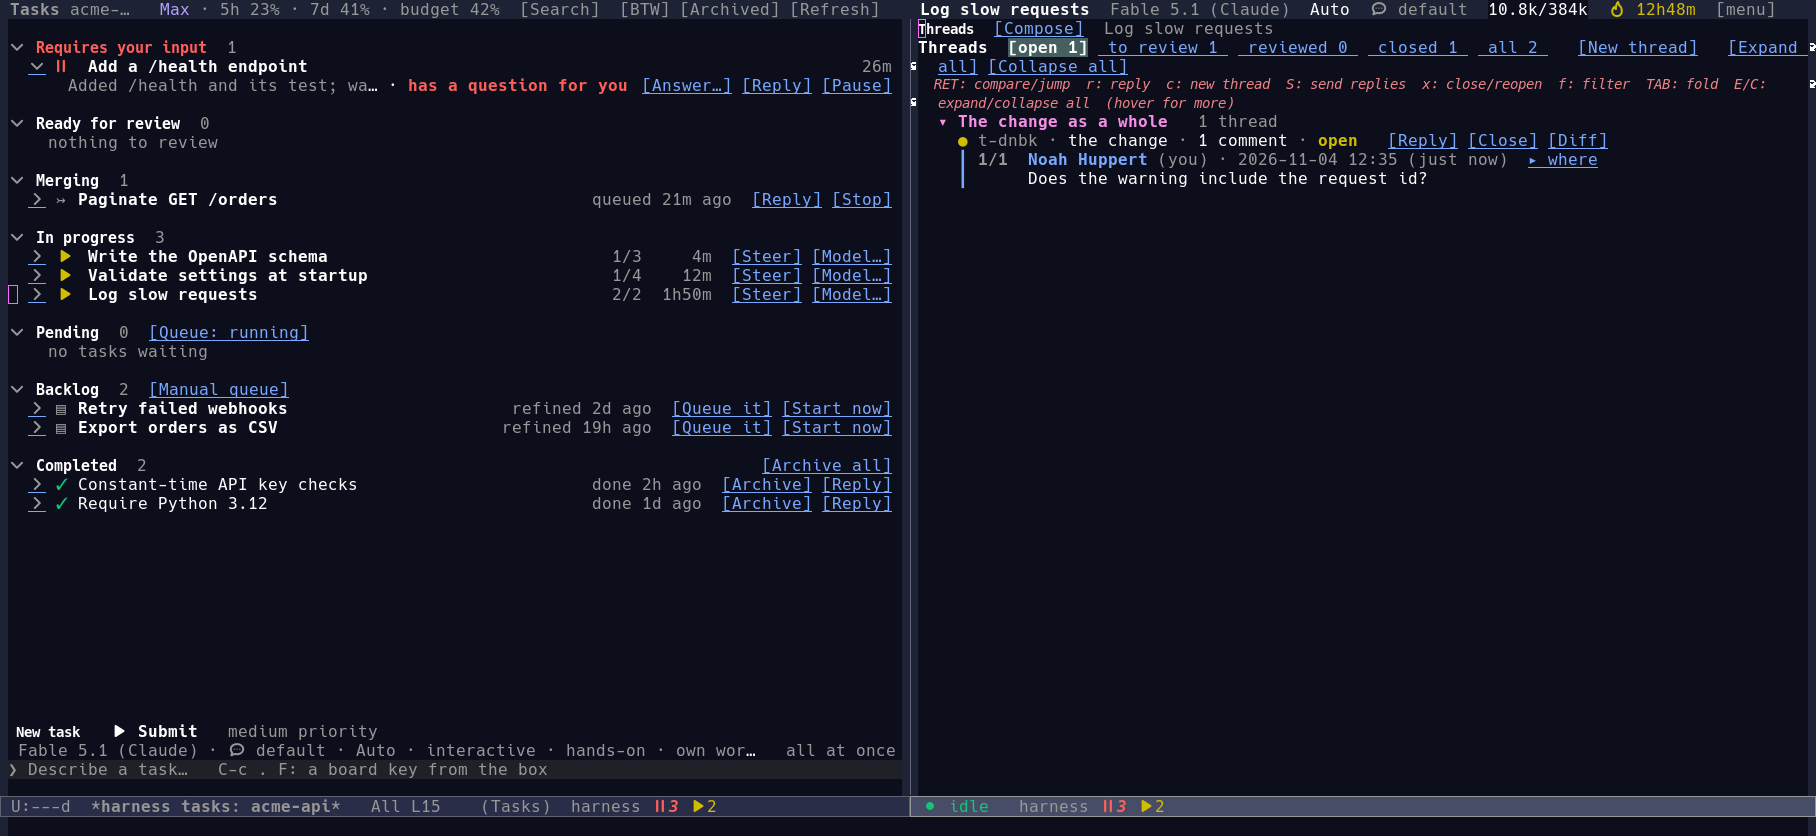
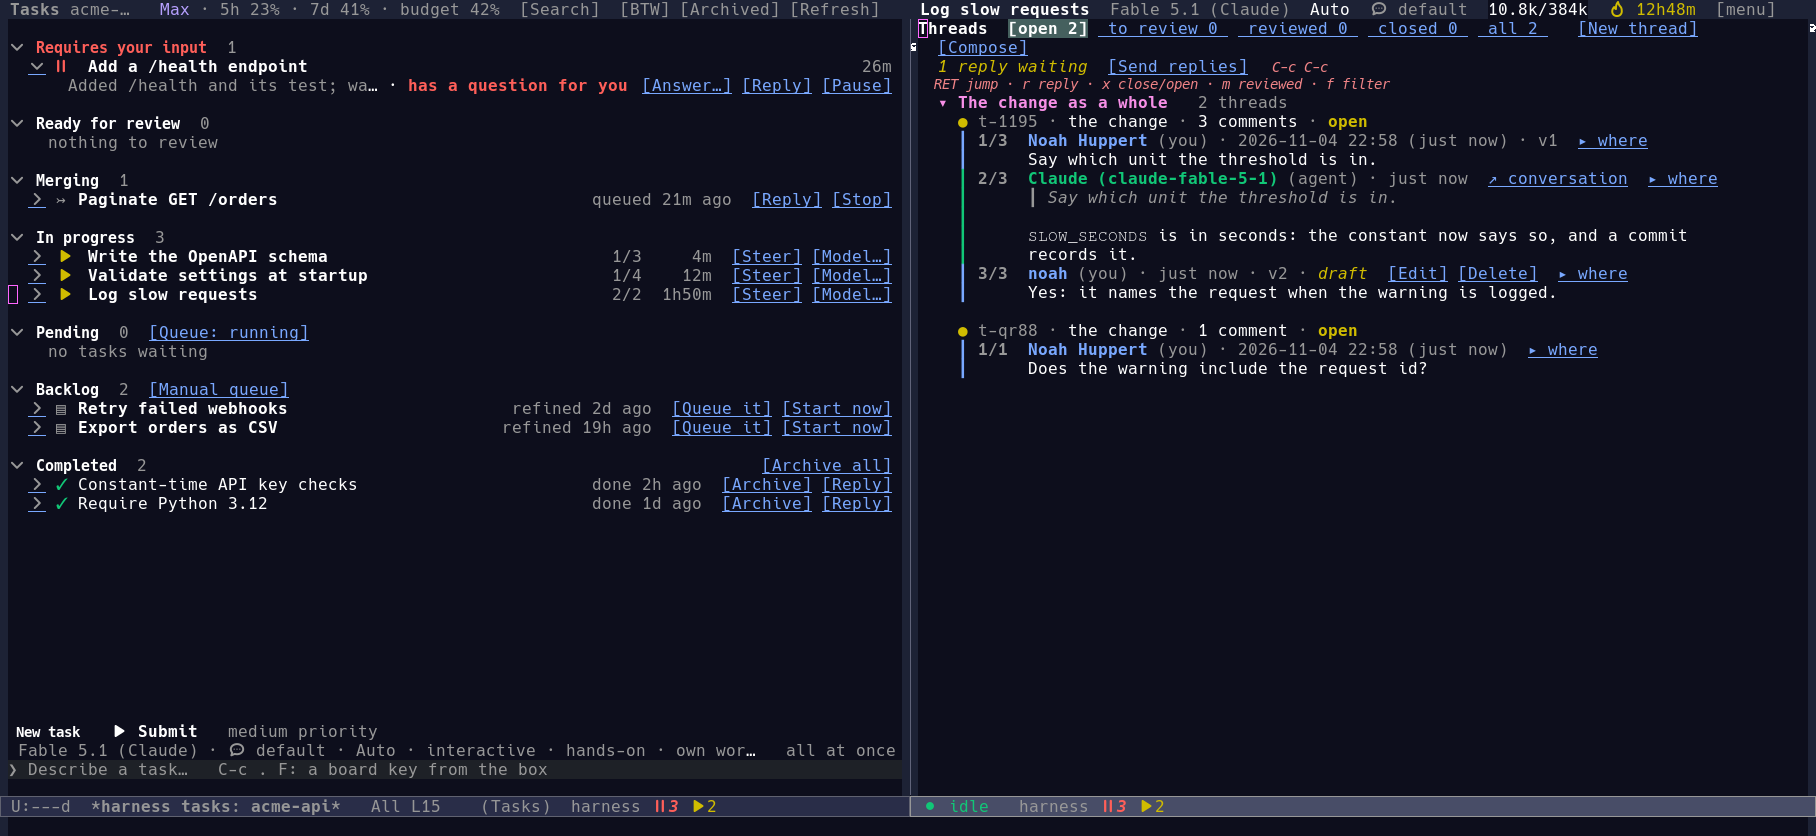
Clean up compose thread UI
Changes:
- Clean up the compose threads view

9 files changed, 262 insertions(+), 104 deletions(-)

diff --git a/docs/screenshots.md b/docs/screenshots.md
@@ -102,7 +102,7 @@ The pictures, by the name `scripts/media.sh` takes:
 | `review-quote` | That selection after `C-c >`: the reply opens in a buffer below the version with the selected part quoted, `> ` before each line, point under it, and the answer typed. The reply is given up after the picture | `harness-media-shot-review-quote` |
 | `links` | A chat whose agent wrote a message of links, `acme/app.py` beside it: a tool call (`harness:call/bash`, the newest call of the bash tool), a session by its name, a message of it, a thread of a task's review and the task, each written by a name or a handle and written out in full by the linking module when the message ended; each reads as the words the agent gave it. Taken last: it makes two sessions of its own and a thread on the slow-request task's review (`harness-media--links-sessions`) | `harness-media-shot-links` |
 | `links-followed` | That chat after a click on the link to the thread: the task's report opened under it, its review at the thread the link names, point on it | `harness-media-shot-links-followed` |
-| `chat-threads` | The session of the slow-request task back at work after `[Keep working]`, `C-c T` pressed: the threads of its review -- the filter, the keys, the cards of each comment, one the user made -- where its compose box was, `[Compose]` to bring the box back and `[New thread]` to write one that quotes nothing. Taken last: it opens the thread if the review has none, and the task stays at work | `harness-media-shot-chat-threads` |
+| `chat-threads` | The session of the slow-request task back at work after `[Keep working]`, `C-c T` pressed: the threads of its review -- one heading with the filter, `[New thread]` and `[Compose]`, the keys in one line, the cards of each comment without the buttons a header has elsewhere, one the user made, and a draft waiting with `[Send replies]` and `C-c C-c` -- where its compose box was. Taken last: it opens the thread if the review has none, gives it the draft, and the task stays at work | `harness-media-shot-chat-threads` |
 | `new-thread` | That threads view after `[New thread]`: the compose box back with a card that says "a new thread", no quote above the words, and the question typed under it, point in the box. Sent, it is the message the agent answers in the thread it starts | `harness-media-shot-new-thread` |
 
 ## How the pictures are made

diff --git a/docs/architecture.md b/docs/architecture.md
@@ -15532,6 +15532,15 @@ set draws every surface through the library's own refresh):
   back after, with the window showing it on the line it was; what is gone
   (a thread closed under the filter that hides closed ones) leaves point
   on the same line, at the start of the thread now there.
+- the chat's threads view (`harness-chat-show-threads`, C-c T): the same
+  section in place of the compose box, its heading line ending in the
+  chat's [Compose] button (`harness-chat--threads-view-compose-button`).
+  It draws the threads open and without the buttons each header has
+  elsewhere; one compact line of keys and, while a task at work has
+  replies waiting, one line with [Send replies] and C-c C-c take their
+  place (`harness-ui-patch-review--compose-thread-map`).  The review
+  banner passes NO-THREADS to `--section` while the view shows, so the
+  threads are in one place; a task at work has no banner to begin with.
 - the tree beside Ediff (below).
 
 AFTER AN UPDATE.  `harness-update` reloads the harness in place, and a
@@ -15744,13 +15753,16 @@ a button with its state in the settings line and in Ediff's help:
   (`harness-ui-patch-review--refresh-approvals`).
 
 THE THREADS, a section below the files and not a view of their own: the
-heading is the library's (`change-review-ui-threads-heading`: the three
-filter buttons with their counts, the drafts not sent), with a
-[New thread] button at its end, then the threads
+heading is the library's (`change-review-ui-threads-heading`: the five
+filter buttons with their counts, and the drafts not sent unless the
+view says that elsewhere), with a [New thread] button at its end, then
+the threads
 of the status the buffer's filter lets through
 (`change-review-ui-threads-string`: by file, the change as a whole
 first, each as the threads view draws it, with [Reply] [Close] [Diff]
-and `▸ where`), each file under its own heading.  The filter starts as
+and `▸ where`), each file under its own heading.  A view that offers the
+actions another way draws the threads with no buttons on their headers
+(`:buttons nil`).  The filter starts as
 `harness-ui-patch-review-closed-threads` says, open or all, and is kept
 by the buffer, so the report, the banner and the tree beside Ediff each
 have their own.  The keys are the library's, bound on the text: r, x, o,

diff --git a/docs/modules/ui-patch-review.md b/docs/modules/ui-patch-review.md
@@ -22,7 +22,11 @@ work it handed in last, which is a conversation with the user rather
 than a review to send feedback on (the chat's C-c T).  What the user
 writes there is a draft as anywhere, and the threads say how many are
 waiting; [Send replies] sends them together (`patch-review/send-replies`),
-as one message to the agent, which answers them in their threads.
+as one message to the agent, which answers them in their threads, and
+so does C-c C-c on the threads the chat shows in place of its box.
+The compose view's threads are drawn without a button on every header
+-- the keys and one line over them do what the buttons did -- and the
+review banner leaves its copy of them out while they show there.
 [Diff] rereads the worktree's current HEAD on each click while the task
 works; historical source links stay at the commit they name.  These
 live views are local, not new hand-ins or baselines for the last review.
